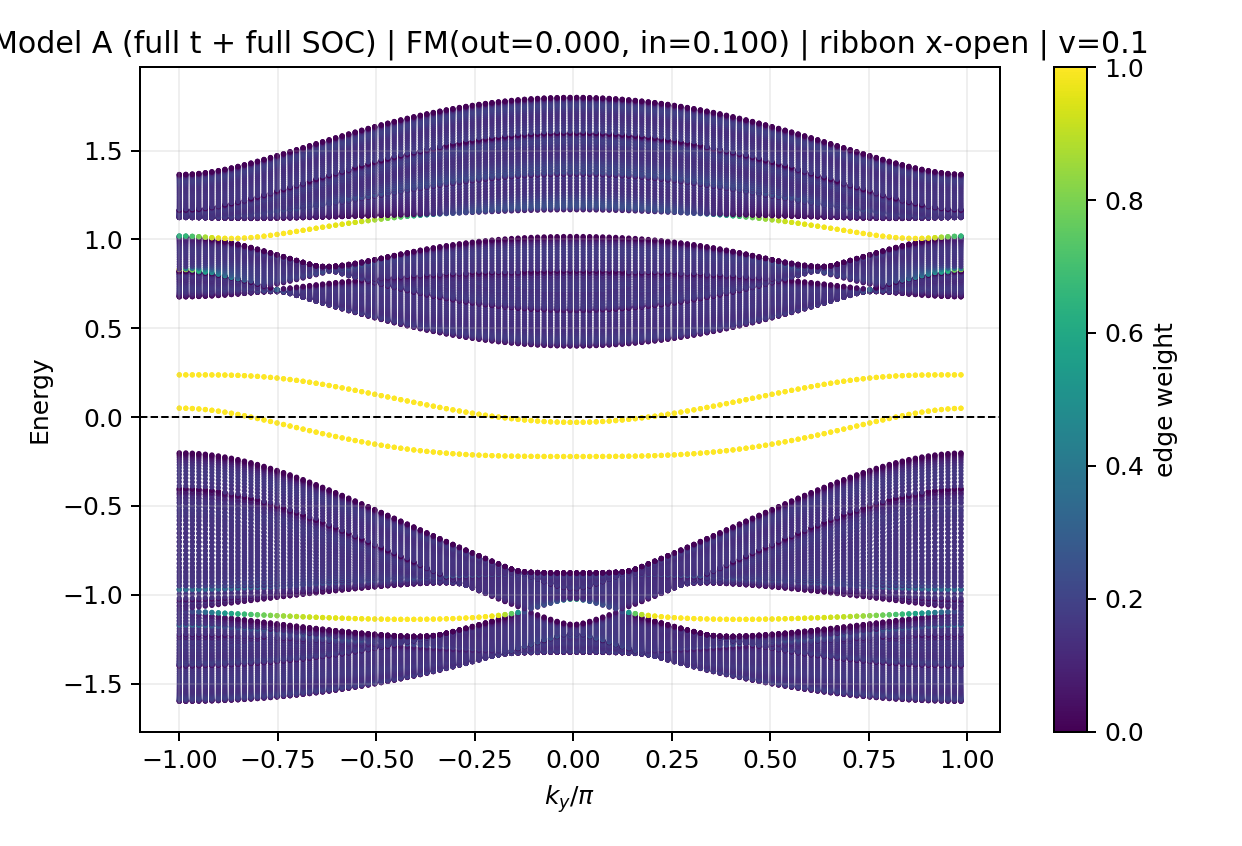
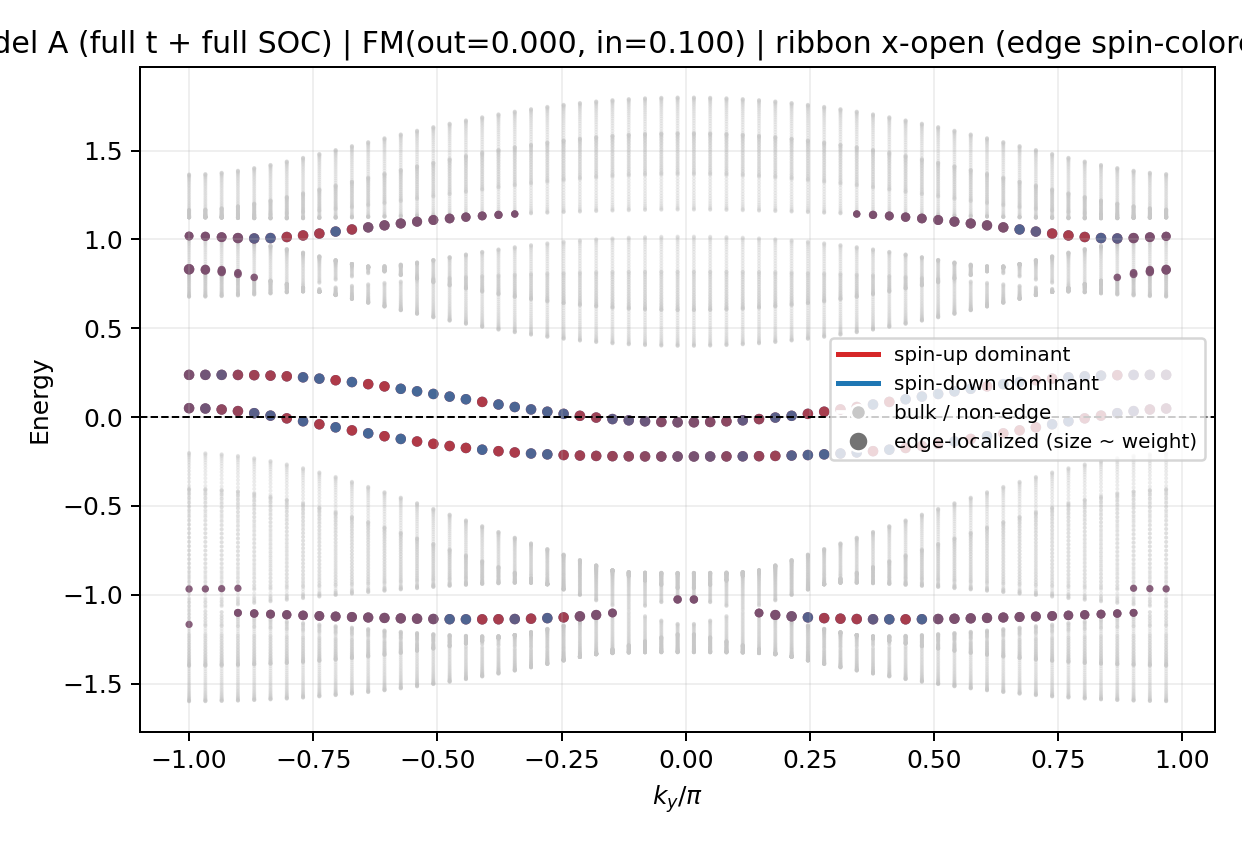
Color ribbon and OBC edge states by spin

diff --git a/scripts/topology_diagnosis/run_three_model_visual_outputs.py b/scripts/topology_diagnosis/run_three_model_visual_outputs.py
@@ -354,20 +354,42 @@ def plot_bulk_band(out_png: Path, v: float, title: str, h8_func, nseg: int) -> N
     ax.set_ylabel("Energy")
     ax.set_title(f"{title} | bulk band (spin-colored) | v={v:.1f}")
     ax.grid(alpha=0.2)
-    legend_handles = [
-        Line2D([0], [0], color=blend_spin_rgb(1.0), lw=2.0, label="spin-up dominant"),
-        Line2D([0], [0], color=blend_spin_rgb(0.0), lw=2.0, label="spin-down dominant"),
-    ]
+    legend_handles = spin_legend_handles()
     ax.legend(handles=legend_handles, loc="best", fontsize=8)
     fig.tight_layout()
     fig.savefig(out_png, dpi=180)
     plt.close(fig)
 
 
-def plot_ribbon(out_png: Path, v: float, title: str, ribbon_builder, nx: int, nk: int, edge_cells: int) -> None:
+def spin_legend_handles() -> list[Line2D]:
+    return [
+        Line2D([0], [0], color=blend_spin_rgb(1.0), lw=2.0, label="spin-up dominant"),
+        Line2D([0], [0], color=blend_spin_rgb(0.0), lw=2.0, label="spin-down dominant"),
+    ]
+
+
+def state_edge_weight(vec: np.ndarray, lx: int, ly: int, edge_mask: np.ndarray) -> float:
+    rho = cell_density(vec, lx=lx, ly=ly)
+    total = float(np.sum(rho))
+    if total < 1e-15:
+        return 0.0
+    return float(np.sum(rho[edge_mask]) / total)
+
+
+def plot_ribbon(
+    out_png: Path,
+    v: float,
+    title: str,
+    ribbon_builder,
+    nx: int,
+    nk: int,
+    edge_cells: int,
+    edge_threshold: float = 0.35,
+) -> None:
     ky_vals = np.linspace(-np.pi, np.pi, nk, endpoint=False)
     evals_all = []
     edge_w_all = []
+    spin_w_all = []
     for ky in ky_vals:
         h = ribbon_builder(float(ky), nx, v)
         evals, vecs = np.linalg.eigh(h)
@@ -375,21 +397,67 @@ def plot_ribbon(out_png: Path, v: float, title: str, ribbon_builder, nx: int, nk
         prob = np.abs(vecs) ** 2
         prob_cell = prob.reshape(nx, 8, prob.shape[1]).sum(axis=1)
         ew = prob_cell[:edge_cells, :].sum(axis=0) + prob_cell[-edge_cells:, :].sum(axis=0)
+        sw = np.array([spin_up_weight(vecs[:, j]) for j in range(vecs.shape[1])], dtype=float)
         evals_all.append(evals)
         edge_w_all.append(ew)
+        spin_w_all.append(sw)
     evals_all = np.array(evals_all, dtype=float)
     edge_w_all = np.array(edge_w_all, dtype=float)
-    fig, ax = plt.subplots(figsize=(6.9, 4.7))
+    spin_w_all = np.array(spin_w_all, dtype=float)
+
     x = np.repeat(ky_vals / np.pi, evals_all.shape[1])
     y = evals_all.reshape(-1)
-    c = edge_w_all.reshape(-1)
-    sc = ax.scatter(x, y, c=c, s=4.5, cmap="viridis", edgecolors="none", vmin=0.0, vmax=1.0)
+    edge_w = edge_w_all.reshape(-1)
+    spin_w = spin_w_all.reshape(-1)
+    edge_mask = edge_w >= edge_threshold
+
+    fig, ax = plt.subplots(figsize=(6.9, 4.7))
+    if np.any(~edge_mask):
+        ax.scatter(
+            x[~edge_mask],
+            y[~edge_mask],
+            s=2.5,
+            color="#c8c8c8",
+            alpha=0.35,
+            edgecolors="none",
+            label="bulk / non-edge",
+        )
+    if np.any(edge_mask):
+        edge_colors = [blend_spin_rgb(w) for w in spin_w[edge_mask]]
+        edge_sizes = 3.5 + 14.0 * edge_w[edge_mask]
+        ax.scatter(
+            x[edge_mask],
+            y[edge_mask],
+            c=edge_colors,
+            s=edge_sizes,
+            alpha=0.9,
+            edgecolors="none",
+            label="edge-localized",
+        )
     ax.axhline(0.0, color="black", linestyle="--", linewidth=0.8)
     ax.set_xlabel(r"$k_y/\pi$")
     ax.set_ylabel("Energy")
-    ax.set_title(f"{title} | ribbon x-open | v={v:.1f}")
+    ax.set_title(f"{title} | ribbon x-open (edge spin-colored) | v={v:.1f}")
     ax.grid(alpha=0.2)
-    fig.colorbar(sc, ax=ax, label="edge weight")
+    bulk_handle = Line2D(
+        [0],
+        [0],
+        marker="o",
+        color="w",
+        markerfacecolor="#c8c8c8",
+        markersize=6,
+        label="bulk / non-edge",
+    )
+    edge_handle = Line2D(
+        [0],
+        [0],
+        marker="o",
+        color="w",
+        markerfacecolor="0.45",
+        markersize=8,
+        label="edge-localized (size ~ weight)",
+    )
+    ax.legend(handles=spin_legend_handles() + [bulk_handle, edge_handle], loc="best", fontsize=8)
     fig.tight_layout()
     fig.savefig(out_png, dpi=180)
     plt.close(fig)
@@ -482,16 +550,58 @@ def run_one_model(
 
         fig, ax = plt.subplots(figsize=(6.8, 4.4))
         x = np.arange(evals.size)
-        ax.plot(x, evals, marker="o", linestyle="none", markersize=2.4, color="#2a66b8", alpha=0.75, label="all states")
-        ax.scatter(idxs, evals[idxs], s=26, color="red", zorder=5, label="states used in WF sum")
+        edge_w_states = np.array(
+            [state_edge_weight(vecs[:, i], lx=args.lx, ly=args.ly, edge_mask=edge) for i in range(evals.size)],
+            dtype=float,
+        )
+        spin_w_states = np.array([spin_up_weight(vecs[:, i]) for i in range(evals.size)], dtype=float)
+        bulk_mask = edge_w_states < 0.35
+        edge_state_mask = ~bulk_mask
+        if np.any(bulk_mask):
+            ax.scatter(
+                x[bulk_mask],
+                evals[bulk_mask],
+                s=10,
+                color="#c8c8c8",
+                alpha=0.45,
+                edgecolors="none",
+                label="bulk / non-edge",
+            )
+        if np.any(edge_state_mask):
+            edge_colors = [blend_spin_rgb(w) for w in spin_w_states[edge_state_mask]]
+            edge_sizes = 14 + 40 * edge_w_states[edge_state_mask]
+            ax.scatter(
+                x[edge_state_mask],
+                evals[edge_state_mask],
+                s=edge_sizes,
+                c=edge_colors,
+                alpha=0.9,
+                edgecolors="none",
+                label="edge-localized",
+            )
+        marked_set = set(int(i) for i in idxs)
+        marked_only = np.array([i for i in range(evals.size) if i in marked_set and i not in set(x[edge_state_mask])])
+        if marked_only.size:
+            marked_colors = [blend_spin_rgb(spin_w_states[i]) for i in marked_only]
+            ax.scatter(
+                marked_only,
+                evals[marked_only],
+                s=30,
+                c=marked_colors,
+                marker="s",
+                linewidths=0.8,
+                edgecolors="black",
+                zorder=6,
+                label="WF-sum (non-edge)",
+            )
         ax.axhline(0.0, color="black", linestyle="--", linewidth=0.8)
         ax.axhline(ewin, color="gray", linestyle=":", linewidth=0.8)
         ax.axhline(-ewin, color="gray", linestyle=":", linewidth=0.8)
         ax.set_xlabel("state index")
         ax.set_ylabel("energy")
-        ax.set_title(f"{spec.title} | OBC E-index (red = WF-sum states) | v={v:.1f}")
+        ax.set_title(f"{spec.title} | OBC E-index (edge spin-colored) | v={v:.1f}")
         ax.grid(alpha=0.22)
-        ax.legend(loc="best", fontsize=8)
+        ax.legend(handles=spin_legend_handles(), loc="best", fontsize=8)
         fig.tight_layout()
         fig.savefig(out_obc / f"open_open_spectrum_mark_sum_v{token(v)}_{spec.key}.png", dpi=180)
         plt.close(fig)
@@ -629,8 +739,8 @@ def main() -> None:
                 f"ferromagnetism: fm_out={args.fm_out}, fm_in={args.fm_in}",
                 "Each model directory contains:",
                 "  01_bulk_band/ (red=spin-up dominant, blue=spin-down dominant)",
-                "  02_ribbon/",
-                "  03_obc_marked/ (red points = states used in WF summation)",
+                "  02_ribbon/ (edge states: red=spin-up, blue=spin-down)",
+                "  03_obc_marked/ (edge states spin-colored by dominant spin)",
                 "  04_wf_sum/",
                 "  summary_*.csv and obc_marked_states_*.csv",
             ]
